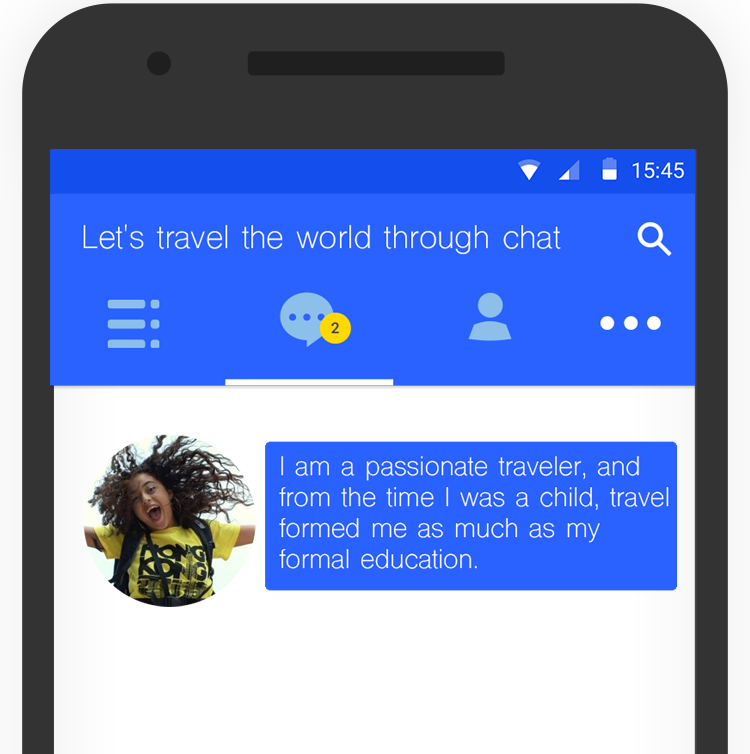
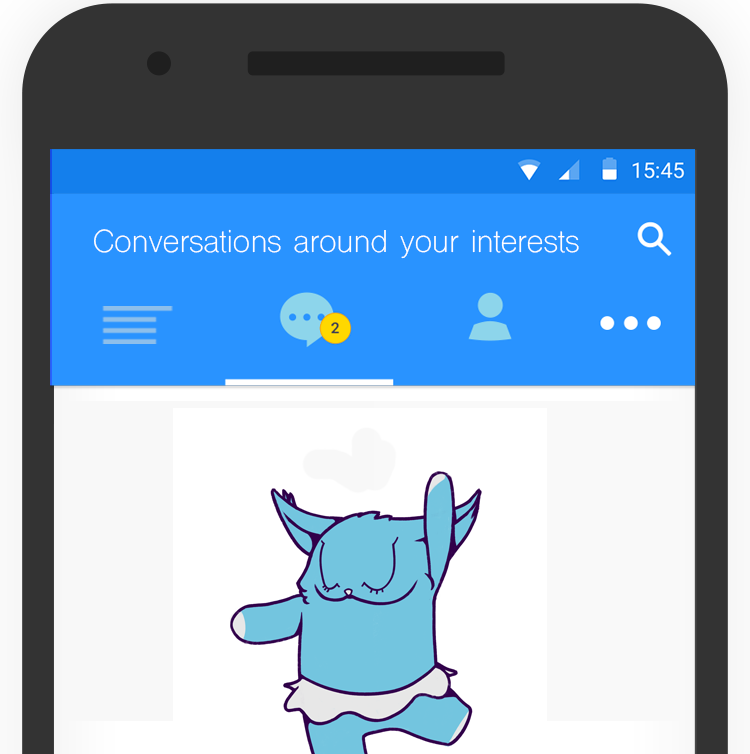
second update

diff --git a/index.html b/index.html
@@ -1,25 +1,23 @@
 <!DOCTYPE html>
 <html lang="en"><head>
   <meta charset="utf-8">
-  <title>Mewdo - Anyone can be Interesting !</title>
-  <meta name="keywords" content="">
-  <meta name="description" content="">
+  <title>Mewdo</title>
+  <meta name="keywords" content="chat,chat app,topics,interests,chat with friends">
+  <meta name="description" content="Mewdo is a messaging app that uses a topic-based platform to chat with people whom care about the same things as you.">
   <meta name="viewport" content="width=device-width, initial-scale=1.0, maximum-scale=1.0, user-scalable=no">
-  <meta property="og:title" content="">
+  <meta property="og:title" content="Mewdo - Anyone can be interesting">
 	<meta property="og:type" content="website">
+  <meta property="og:image" content="http://mewdo.com/img/thumb.png">
 	<meta property="og:url" content="">
-	<meta property="og:site_name" content="">
-	<meta property="og:description" content="">
-
+	<meta property="og:site_name" content="Mewdo">
+	<meta property="og:description" content="Mewdo is a messaging app that uses a topic-based platform to chat with people whom care about the same things as you.">
+  <link rel="stylesheet" href="https://cdnjs.cloudflare.com/ajax/libs/animate.css/3.5.2/animate.min.css">
   <!-- Styles -->
   <link rel="stylesheet" href="css/font-awesome.min.css">
   <link rel="stylesheet" href="css/animate.css">
   <link href='http://fonts.googleapis.com/css?family=Raleway:400,100,200,300,500,600,700,800,900|Montserrat:400,700' rel='stylesheet' type='text/css'>
-
-
   <link rel="stylesheet" href="css/bootstrap.min.css">
   <link rel="stylesheet" href="css/main.css">
-
   <script src="js/modernizr-2.7.1.js"></script>
 
 </head>
@@ -108,7 +106,7 @@
 			    <div class="col-sm-4 wow fadeIn" data-wow-delay="0.8s">
 				    <hr  class="line blue">
 				    <h3>Straightforward</h3>
-				    <p>You don't have to squander your time anymore looking for interesting subjects, we do it for you !</p>
+				    <p>You don't have to beat around the bush anymore. Tell us about yourself, and we will do it for you.</p>
 			    </div>
           <div class="col-sm-4 wow fadeIn" data-wow-delay="0.4s">
 				    <hr class="line purple">
@@ -128,9 +126,18 @@
               <img src="img/traveling.png" class="conversation-img" alt="" />
             </div>
           </div>
-          <div class="row">
-
-          </div>
+      <div class="notification animated notif-left ">
+        <img src="img/profile1.jpg" alt="" />
+        <p>
+          Lorem ipsum dolor sit amet, consectetur adipisicing elit, sed do eiusmod tempor incididunt ut labore et dolore magna aliqua.
+        </p>
+      </div>
+      <div class="notification animated notif-right ">
+        <img src="img/profile1.jpg" alt="" />
+        <p>
+          Lorem ipsum dolor sit amet, consectetur adipisicing elit, sed do eiusmod tempor incididunt ut labore et dolore magna aliqua.
+        </p>
+      </div>
       </div>
     </div>
 

diff --git a/js/main.js b/js/main.js
@@ -93,4 +93,71 @@ $(document).ready(function(){
   });
 
 
+  var statements = [
+    {
+      picture:"img/profile1.jpg",
+      statement : "I'm a twenty-something geek, love innovation , new technologies and have new dicussions with smart people to improve my skills",
+      color: "#1abc9c"
+    },
+    {
+      picture:"img/profile2.jpg",
+      statement : "I am a passionate traveler, and from the time I was a child, travel formed me as much as my formal education.",
+      color: "#9b59b6"
+    },
+    {
+      picture:"img/profile4.jpg",
+      statement : "Mewdo will help me meeting an open doorway with an open mind and just have a basic honest conversation",
+      color: "#e67e22"
+    },
+    {
+      picture:"img/profile3.jpg",
+      statement: "Sometimes, all I want is to talk, I don't want to be judged, I don't want to squander my time looking for an interesting conversation, I just want to be free!",
+      color:"#e74c3c"
+    },
+    {
+      picture:"img/profile5.jpg",
+      statement: "I'm looking for a running buddy around my town, I'm passionate about sports, Who want to run with me in the middle of the day or the mornings ?",
+      color:"#f39c12"
+    }
+  ]
+
+  setInterval(function(){
+
+    var statement = statements[Math.floor( statements.length * Math.random())];
+    $(".notif-left img").attr("src",statement.picture);
+    $(".notif-left p").text(statement.statement);
+    $(".notif-left").css("background-color",statement.color);
+    $(".notif-left").show();
+    $(".notif-left").removeClass("fadeOutUp");
+    $(".notif-left").addClass("fadeInUp");
+
+    setTimeout(function(){
+        $(".notif-left").removeClass("fadeInUp");
+        $(".notif-left").addClass("fadeOutUp");
+    },5000)
+
+  },6000);
+
+  setInterval(function(){
+
+    var statement = statements[Math.floor( statements.length * Math.random())];
+    $(".notif-right img").attr("src",statement.picture);
+    $(".notif-right p").text(statement.statement);
+    $(".notif-right").css("background-color",statement.color);
+    $(".notif-right").show();
+    $(".notif-right").removeClass("fadeOutUp");
+    $(".notif-right").addClass("fadeInUp");
+
+    setTimeout(function(){
+        $(".notif-right").removeClass("fadeInUp");
+        $(".notif-right").addClass("fadeOutUp");
+    },4000)
+
+  },5000);
+
+
+
+
+
+
 });

diff --git a/css/main.css b/css/main.css
@@ -820,11 +820,46 @@ ul.ChatLog {
 
 .travel-case{
       text-align: center;
+      position: relative;
 }
 .travel-case .conversation-img{
   margin: auto;
   width: 375px;
   height: 377px;
+}
+
+.notification{
+  width: 300px;
+  position: absolute;
+  top: 300px;
+  display: none;
+  border-radius: 4px;
+  padding: 10px;
+  background: #55a40f;
+}
+
+.notif-right{
+  right:10px;
+}
+
+.notif-left{
+  left:10px;
+}
+
+.notification p{
+  color: white;
+  font-size: 13px;
+  font-family: 'Raleway', sans-serif;
+  font-weight: 100;
+}
+
+.notification img{
+  height: 60px;
+  width: 60px;
+  position: absolute;
+  border-radius: 100px;
+  top: 54px;
+  left: -30px;
 }
 
 
@@ -863,6 +898,9 @@ ul.ChatLog {
   letter-spacing: 0px;
 }
 
+.notif-right{
+  opacity: 0 !important;
+}
 
 .btn-wide {
   width: 100%;
